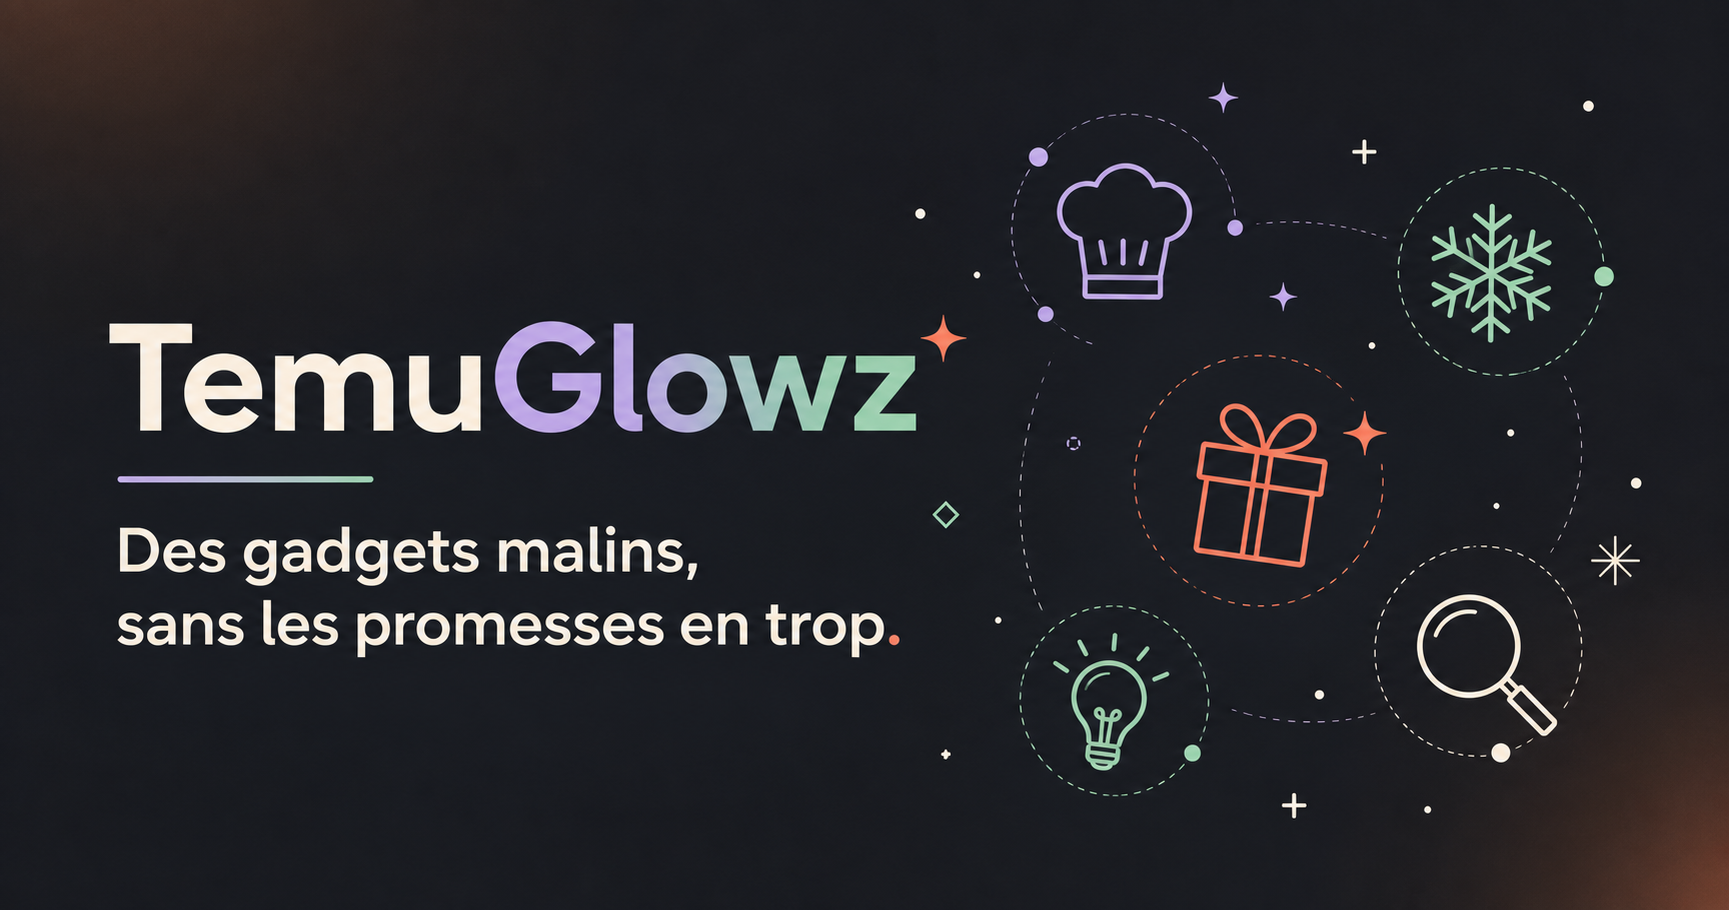
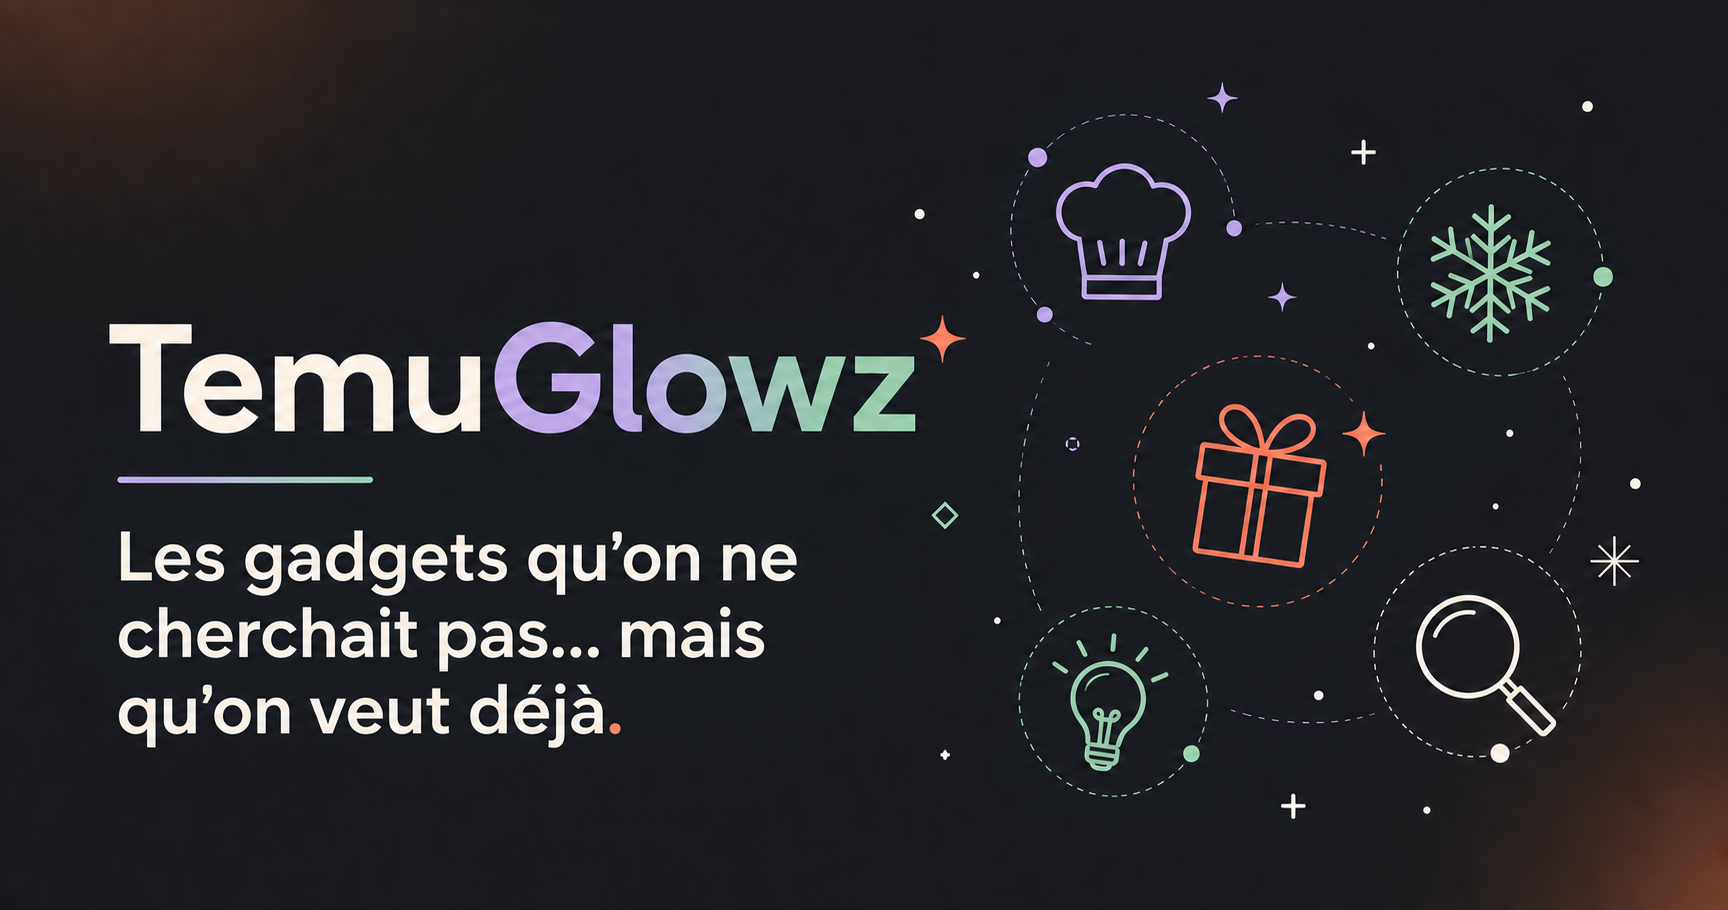
up

diff --git a/site/src/site/components/ProductCard.vue b/site/src/site/components/ProductCard.vue
@@ -48,12 +48,24 @@ defineProps<{
         </div>
       </div>
 
-      <div class="flex-1 min-w-0 flex flex-col justify-between py-0.5">
-        <div class="mb-1.5 sm:mb-3">
-          <h3 class="text-sm font-semibold text-foreground group-hover:text-primary transition-colors line-clamp-2 sm:text-base">
-            {{ name }}
-          </h3>
-          <p class="text-xs text-muted-foreground mt-0.5 line-clamp-2 sm:line-clamp-none sm:text-sm sm:mt-1">{{ description }}</p>
+      <div class="flex-1 min-w-0 flex flex-col justify-between py-0.5 relative">
+        <div class="flex items-start justify-between gap-2">
+          <div class="mb-1.5 sm:mb-3">
+            <h3 class="text-sm font-semibold text-foreground group-hover:text-primary transition-colors line-clamp-2 sm:text-base">
+              {{ name }}
+            </h3>
+            <p class="text-xs text-muted-foreground mt-0.5 line-clamp-2 sm:line-clamp-none sm:text-sm sm:mt-1">{{ description }}</p>
+          </div>
+          <a
+            v-if="productUrl"
+            :href="productUrl"
+            target="_blank"
+            rel="noopener noreferrer sponsored"
+            class="shrink-0 inline-flex items-center justify-center gap-1 px-2.5 py-1 rounded-full bg-primary text-background font-medium hover:bg-primary/90 transition-colors shadow-md shadow-primary/20 text-[10px] sm:px-4 sm:py-2 sm:text-xs -mt-1 -mr-1 sm:-mt-2 sm:-mr-2"
+          >
+            Voir sur Temu
+            <svg xmlns="http://www.w3.org/2000/svg" viewBox="0 0 24 24" fill="none" stroke="currentColor" stroke-width="2" class="w-3 h-3 sm:w-3.5 sm:h-3.5"><path d="M7 17 17 7M7 7h10v10"/></svg>
+          </a>
         </div>
 
         <div class="flex flex-wrap gap-1 sm:gap-2 mb-1.5 sm:mb-3">
@@ -61,20 +73,10 @@ defineProps<{
           <span v-if="pros?.length" class="inline-flex items-center px-2 py-0.5 rounded-full bg-emerald-500/10 text-emerald-400 text-[10px] sm:text-xs">{{ pros[0] }}</span>
         </div>
 
-        <div class="flex items-center justify-between gap-2">
-          <div>
+        <div class="flex justify-end">
+          <div class="text-right">
             <p class="text-base font-bold text-foreground sm:text-xl">{{ price }}</p>
           </div>
-          <a
-            v-if="productUrl"
-            :href="productUrl"
-            target="_blank"
-            rel="noopener noreferrer sponsored"
-            class="shrink-0 inline-flex items-center justify-center gap-1 px-3 py-1.5 rounded-full bg-primary text-background font-medium hover:bg-primary/90 transition-colors shadow-md shadow-primary/20 text-xs sm:px-5 sm:py-2.5 sm:text-sm"
-          >
-            Voir sur Temu
-            <svg xmlns="http://www.w3.org/2000/svg" viewBox="0 0 24 24" fill="none" stroke="currentColor" stroke-width="2" class="w-3 h-3 sm:w-4 sm:h-4"><path d="M7 17 17 7M7 7h10v10"/></svg>
-          </a>
         </div>
       </div>
     </div>

diff --git a/site/src/site/data/guideIndex.ts b/site/src/site/data/guideIndex.ts
@@ -4,6 +4,7 @@ import summerCoolingData from './summer-cooling.json'
 export interface GuideIndexEntry {
   slug: string
   title: string
+  homepageTitle: string
   description: string
   updatedDate: string
   category: string
@@ -14,17 +15,19 @@ export const guideIndex: GuideIndexEntry[] = [
   {
     slug: '/guides/kitchen-gadgets',
     title: kitchenGadgetsData.title,
+    homepageTitle: 'Les petits gadgets qui simplifient vraiment la cuisine',
     description: kitchenGadgetsData.description,
     updatedDate: kitchenGadgetsData.updatedDate,
     category: 'Cuisine',
-    readingHint: 'Ustensiles, rangement et accessoires à comparer pour la cuisine du quotidien.',
+    readingHint: 'Découper, ranger, nettoyer… des idées toutes simples pour se faciliter la vie.',
   },
   {
     slug: '/guides/summer-cooling',
     title: summerCoolingData.title,
+    homepageTitle: 'Les accessoires qui rendent les grosses chaleurs plus supportables',
     description: summerCoolingData.description,
     updatedDate: summerCoolingData.updatedDate,
     category: 'Été',
-    readingHint: 'Formats portables et accessoires à comparer pour les journées chaudes.',
+    readingHint: 'Ventilos de poche, accessoires frais et autres idées bienvenues quand le thermomètre grimpe.',
   },
 ]

diff --git a/site/src/site/components/Navbar.vue b/site/src/site/components/Navbar.vue
@@ -2,10 +2,10 @@
 import { onBeforeUnmount, onMounted, ref } from 'vue'
 
 const navItems = [
-  { label: 'Univers', href: '/#themes' },
-  { label: 'Sélections', href: '/#selections' },
-  { label: 'Méthode', href: '/#method' },
-  { label: 'Tous les guides', href: '/guides' },
+  { label: 'Les idées', href: '/#themes' },
+  { label: 'En ce moment', href: '/#selections' },
+  { label: 'Comment on choisit', href: '/#method' },
+  { label: 'Tout voir', href: '/guides' },
 ]
 
 const isDark = ref(true)

diff --git a/shipglowz_data/workflow/specs/temuglowz-home-catalog-repositioning.md b/shipglowz_data/workflow/specs/temuglowz-home-catalog-repositioning.md
@@ -1,12 +1,12 @@
 ---
 artifact: spec
 metadata_schema_version: "1.0"
-artifact_version: "1.2.0"
+artifact_version: "1.3.0"
 project: "temuglowz"
 created: "2026-07-13"
 created_at: "2026-07-13 11:36:26 UTC"
 updated: "2026-07-13"
-updated_at: "2026-07-13 12:16:46 UTC"
+updated_at: "2026-07-13 14:12:08 UTC"
 status: reviewed
 source_skill: 100-sg-spec
 source_model: "GPT-5 Codex"
@@ -47,7 +47,7 @@ depends_on:
     artifact_version: "1.1.0"
     required_status: reviewed
   - artifact: "shipglowz_data/editorial/page-intent-map.md"
-    artifact_version: "1.1.0"
+    artifact_version: "1.2.0"
     required_status: reviewed
   - artifact: "shipglowz_data/technical/guidelines.md"
     artifact_version: "1.0.0"
@@ -246,7 +246,7 @@ exception_without_proof:
 - `shipglowz_data/technical/site/design-system-authority.md` version `1.0.0`: public-site token source, focus/reduced-motion expectations and drift proof.
 - `shipglowz_data/workflow/specs/temuglowz-temu-affiliate-readiness.md` version `1.0.0`: umbrella public-site trust, affiliation and production-proof gates.
 - `shipglowz_data/editorial/content-map.md` version `1.1.0`: catalogue-first homepage job and update triggers.
-- `shipglowz_data/editorial/page-intent-map.md` version `1.1.0`: homepage audience, primary/secondary CTAs, required content and forbidden shortcuts.
+- `shipglowz_data/editorial/page-intent-map.md` version `1.2.0`: homepage audience, everyday-shopper voice, primary/secondary CTAs, required content and forbidden shortcuts.
 - `shipglowz_data/technical/guidelines.md` version `1.0.0`: internal language doctrine, French public-copy rules and project-wide claim boundaries.
 - `site/src/site/data/guideIndex.ts`: canonical list of guides safe to feature without duplicating guide content in the homepage.
 - Temu Terms of Use, effective 2025-10-11 and checked 2026-07-13: restrictions against crawl/scrape/spider behavior and significant-content copying; limited use absent permission.
@@ -470,6 +470,7 @@ None block readiness review. The implementation should use the two currently sub
 | 2026-07-13 12:12:32 UTC | 102-sg-start | GPT-5 Codex | Implemented the catalogue-first homepage composition, guide binding, active navigation/footer, catalogue metadata/schema, OG artwork and bounded visual identity; removed misleading app/pricing/testimonial/newsletter surfaces from active composition. | implemented | `/108-sg-browser http://127.0.0.1:4321/ homepage catalogue desktop/mobile` |
 | 2026-07-13 12:14:00 UTC | 108-sg-browser | GPT-5 Codex | Verified the built homepage at desktop and mobile widths, corrected missing emoji glyphs with code-native SVG icons, then rechecked responsive layout, navigation/theme controls, accessibility structure, console and network. | pass | `/103-sg-verify shipglowz_data/workflow/specs/temuglowz-home-catalog-repositioning.md` |
 | 2026-07-13 12:16:46 UTC | 103-sg-verify | GPT-5 Codex | Verified the user story, success/error behavior, 12 required checklist scenarios, build/typecheck/tests, claim/schema/link scans, metadata coherence, scoped design-system findings and durable browser evidence. | verified | `/104-sg-end shipglowz_data/workflow/specs/temuglowz-home-catalog-repositioning.md` |
+| 2026-07-13 14:12:08 UTC | 200-sg-redact | GPT-5 Codex | Rewrote the complete homepage journey after operator feedback to replace entrepreneur-facing strategy language with everyday shopper language focused on useful finds, simple pleasures, gift ideas and daily-life problems; aligned homepage card titles, metadata, navigation, footer and social artwork. | implemented and browser-checked | `/104-sg-end shipglowz_data/workflow/specs/temuglowz-home-catalog-repositioning.md` |
 
 ## Current Chantier Flow
 

diff --git a/shipglowz_data/editorial/page-intent-map.md b/shipglowz_data/editorial/page-intent-map.md
@@ -1,7 +1,7 @@
 ---
 artifact: editorial_plan
 metadata_schema_version: "1.0"
-artifact_version: "1.1.0"
+artifact_version: "1.2.0"
 project: "TemuGlowz"
 created: "2026-07-12"
 updated: "2026-07-12"
@@ -20,6 +20,7 @@ supersedes: []
 evidence:
   - "The public site has product, guide, and trust pages with different user jobs."
   - "Operator decision 2026-07-13: the homepage should feel like a friendly catalogue of useful, cute, and unusual gadgets rather than an application sales page."
+  - "Operator feedback 2026-07-13: homepage copy must speak to everyday shoppers, not sound like a company explaining its strategy to entrepreneurs."
 next_step: "/206-sg-audit-copy public guides"
 ---
 
@@ -37,7 +38,9 @@ Secondary CTA: discover the application through a discreet, accurately labelled 
 
 Required content: playful catalogue-first hero, use-case discovery cues, featured published guides, selection method, independent/non-test posture, and a reminder to verify volatile product details on Temu.
 
-Forbidden shortcuts: price tracking or alerts, automated extraction or monitoring, fabricated testimonials or savings, unproved pricing/subscription claims, simulated newsletter confirmation, empty category destinations, hands-on test claims, or Temu partnership language without evidence.
+Voice: everyday, warm and desire-led. Talk about finds, small daily problems, gift ideas and the pleasure of discovering something clever. Keep governance terms such as “editorial catalogue”, “criteria”, “methodology”, “published selection” and “independent project” out of the main browsing journey; translate necessary safeguards into simple shopping advice.
+
+Forbidden shortcuts: price tracking or alerts, automated extraction or monitoring, fabricated testimonials or savings, unproved pricing/subscription claims, simulated newsletter confirmation, empty category destinations, hands-on test claims, Temu partnership language without evidence, or entrepreneur-facing strategy language in consumer discovery copy.
 
 ## Public guides
 

diff --git a/shipglowz_data/workflow/verification/temuglowz-home-catalog-repositioning/verification-summary.md b/shipglowz_data/workflow/verification/temuglowz-home-catalog-repositioning/verification-summary.md
@@ -54,3 +54,19 @@ No scraper, Temu session access, affiliate identifier, data collection, payment 
 This verifies the homepage child chantier only. It does not establish Temu affiliate approval or global affiliate readiness, and it does not authorize commit, push or deployment.
 
 Verification verdict: pass for the bounded local homepage catalogue-first scope.
+
+## Consumer-copy refinement — 2026-07-13
+
+Following operator feedback, the homepage was rewritten to address everyday shoppers rather than sound like a company explaining its positioning. The visible journey now uses ordinary language around useful finds, gifts, kitchen shortcuts, hot days and small daily problems. Governance-heavy terms were removed from the browsing copy and necessary safeguards were translated into simple pre-purchase reminders.
+
+- Homepage-specific card titles now favor natural discovery language while canonical guide titles remain available for guide/schema contracts.
+- Navigation, footer, title, description and default WebSite schema copy were aligned.
+- The Open Graph artwork was edited with the exact consumer-facing line “Les gadgets qu’on ne cherchait pas… mais qu’on veut déjà.” using the built-in image generation workflow; final asset saved at `site/public/og-image.png` (1728×910).
+- Typecheck, tests and static build pass.
+- Focused forbidden-claim and entrepreneur-jargon scans pass for active homepage source.
+- Desktop and mobile browser captures show coherent wrapping, no horizontal overflow, zero console errors and zero unnamed controls.
+
+Additional evidence:
+
+- `home-desktop-consumer-copy.png`
+- `home-mobile-consumer-copy.png`
